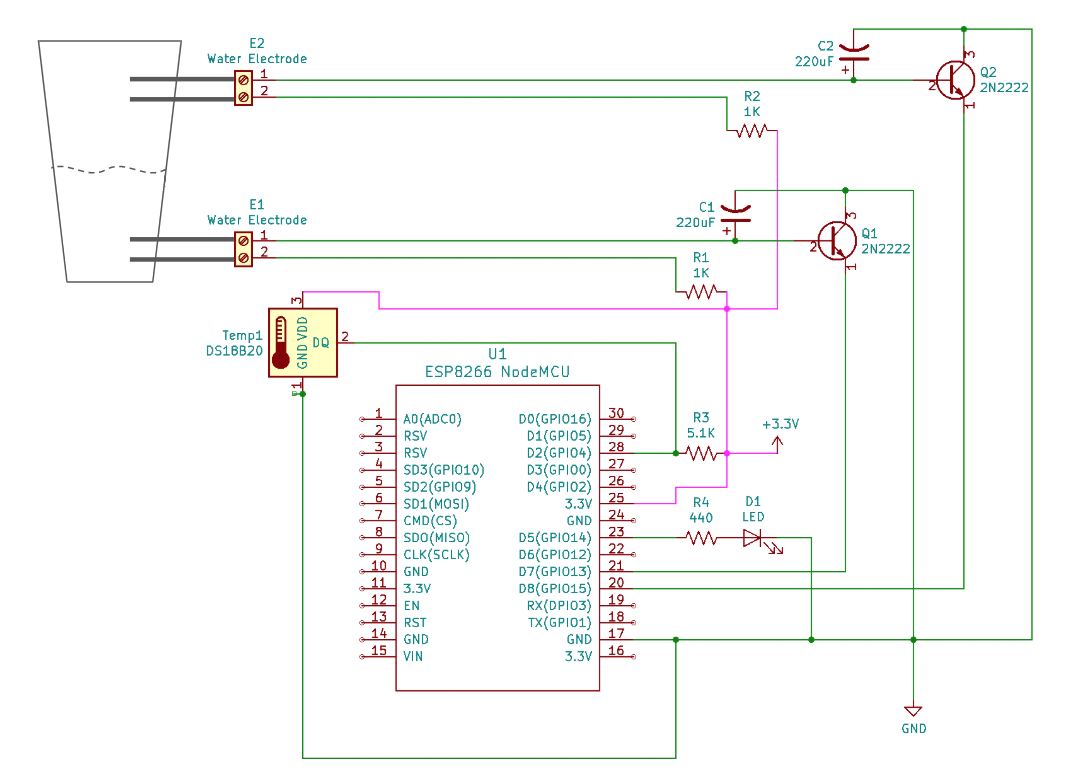
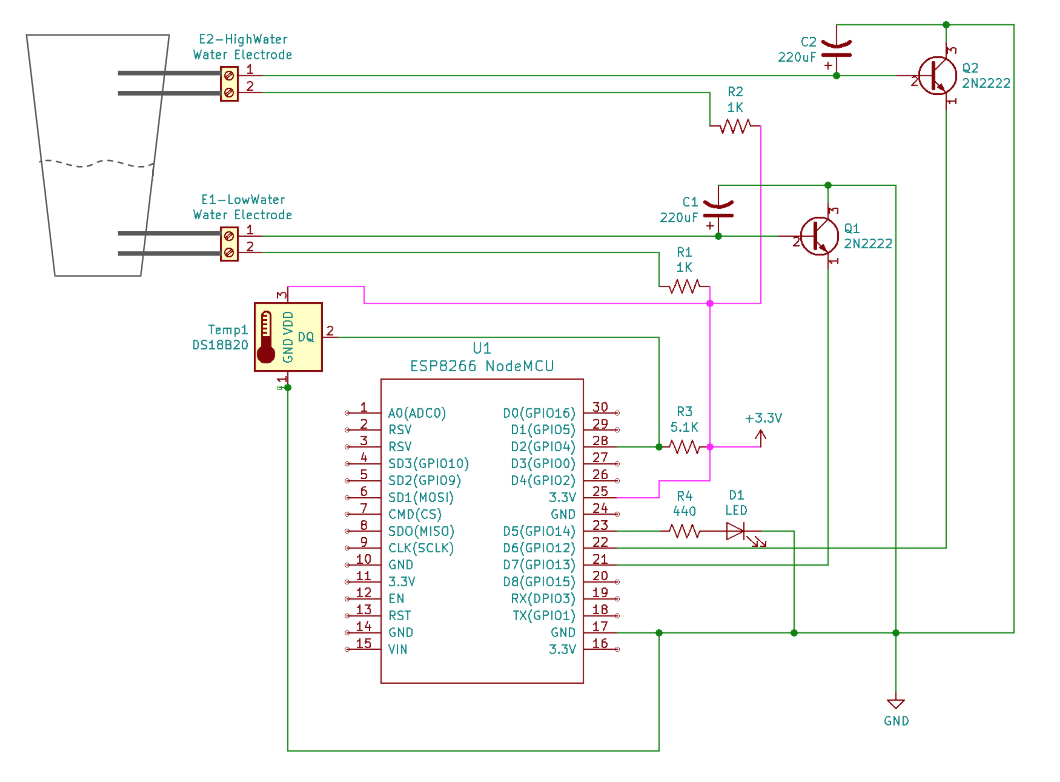
Added 2nd Water Detector and Code

diff --git a/README.md b/README.md
@@ -11,23 +11,21 @@ Optional temperature probe: Adding a DS18B20 One-Wire bus temperature sensor to 
 ## Circuit
 This project is based on the amazing low-cost WiFi enable ESP8266 NodeMCU controller.  We will use the GPIO digital ports, specifically:
 * GPIO 13 (pin D7) - Water Sensor #1
-* GPIO 15 (pin D8) - Water Sensor #2
+* GPIO 12 (pin D6) - Water Sensor #2
 * GPIO 14 (pin D5) - External LED Indicator
 * GPIO  4 (pin D2) - OneWire Bus for DS18B20 Temperature Probe
 
 ![Circuit Board](schematic.png)
 
 ### Water Sensors (2)
-Components: 
 * E1 & E2 - Water resistant 2 prong electrodes 
 * R1 & R2 - 1K ohm reistors 
 * C1 & C2 - 220uF electrolytic capacitors 
-* Q1 & Q2 - NPN Transitor (2N2222)
+* Q1 & Q2 - NPN Transitor (e.g. 2N2222)
 
 The capacitor provides signal stability and the capacitance can vary depending upon how long you want the sensor to register after the water is detected removed.  For my application, I expect water waves across the sensor so I want to hold the signal high as soon a crests of the waves start making contact with the electrode.  By using a 220uF capacitor once the first detection is made it will hold the signal high for 5 seconds, preventing signal oscillation. 
 
 ### Temperature Sensor (1)
-Components: 
 * Temp1 - DS18B20 temperature sensor (recommend waterproof probe) 
 * R3 - 5.1K ohm resistor
 
@@ -36,7 +34,12 @@ Components:
 * R4 - 400 ohm resistor
 
 ## Code
-TBD
+Arduino IDE Requirements:
+1. You should be able to program your ESP8266 from the Arduino IDE.  
+2. Open your Arduino IDE and go to Sketch > Include Library > Manage Libraries and add:
+    * One Wire Library
+    * Dallas Temperature Sensor library
+3. Open ![ESP8266WaterDetector.ino](ESP8266WaterDetector.ino) source code.
 
 ## Reference
 ESP8266 NodeMCU - Amazon: https://www.amazon.com/gp/product/B07XVKJ36C/ref=ppx_yo_dt_b_search_asin_title?ie=UTF8&psc=1
